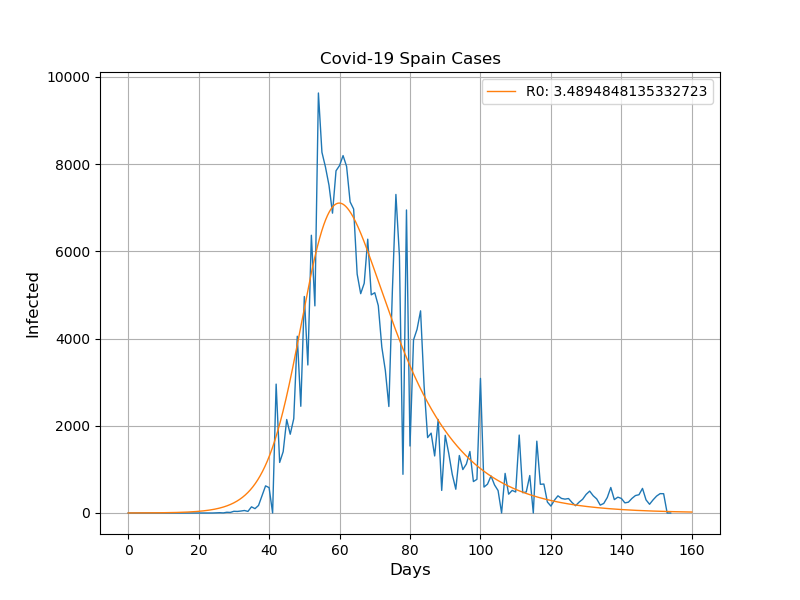
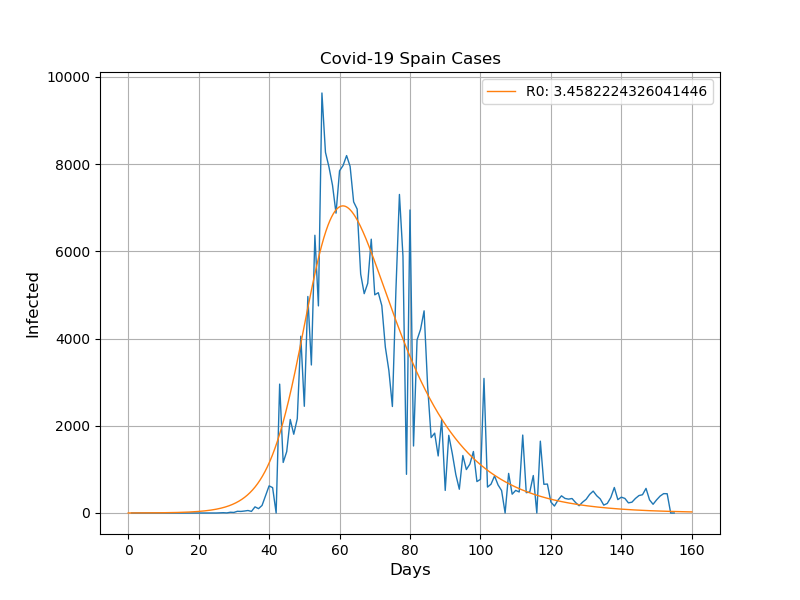
REARME.md mod and new results

Changed region(s): [[0.25, 0.15, 0.8438, 0.87], [0.7188, 0.12, 0.875, 0.18]]

diff --git a/README.md b/README.md
@@ -53,9 +53,9 @@ and it's defined as R-0 = a*N/b where N is the total sample population.
 
 # Some results
 
-Italy: N = 15000, a = 1.6264e-05, b = 0.0630, R-0 = 3.8725
+Italy: N = 15000, a = 1.5993e-05, b = 0.0626, R-0 = 3.8337
 
-Spain: N = 20000, a = 1.2789e-05, b = 0.0733, R-0 = 3.4895
+Spain: N = 20000, a = 1.2598e-05, b = 0.0729, R-0 = 3.4582
 
 # Data Source
 
